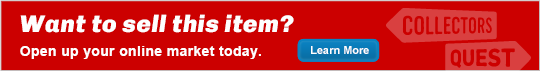
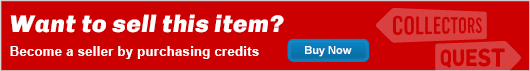
Updating the upselling creative for the _collectible_form_for_sale.php

diff --git a/apps/frontend/modules/mycq/templates/_collectible_form_for_sale.php b/apps/frontend/modules/mycq/templates/_collectible_form_for_sale.php
@@ -55,31 +55,15 @@
     </div>
   </div>
   <?php else: ?>
-  <div id="not-a-seller-box" class="spacer-bottom-20">
-    <div class="inner-yellow-bg">
-      <div class="row-fluid">
-        <div class="span12">
-          <span class="Chivo webfont buy-credits">
-            Want to sell this collectible?<br/>
-            Start selling now for a small fee.
-          </span>
-          <div class="row-fluid spacer-inner-top">
-            <div class="span6">
-              <?= link_to('1 credit / $2.50', '@seller_packages', array('class' => 'btn blue-button')) ?>
-              <br/><br/>
-              <?= link_to('10 credits / $20', '@seller_packages', array('class' => 'btn blue-button')) ?>
-            </div>
-            <div class="span6">
-              <?= link_to('100 credits / $150', '@seller_packages', array('class' => 'btn blue-button')) ?>
-              <br/><br/>
-              <?= link_to('Unlimited Credits / $250', '@seller_packages', array('class' => 'btn blue-button')) ?>
-            </div>
-          </div>
-        </div>
-      </div>
-      <br/>
-    </div>
-  </div>
+  <center>
+    <?php
+      echo link_to(
+        image_tag('banners/want-to-sell-this-item.png'),
+        '@seller_packages'
+      );
+    ?>
+  </center>
+  <br/>
   <?php endif; ?>
 </div>
 

diff --git a/apps/frontend/modules/mycq/templates/_createCollectibleForSale.php b/apps/frontend/modules/mycq/templates/_createCollectibleForSale.php
@@ -8,7 +8,7 @@
 <form action="<?= url_for('@ajax_mycq?section=component&page=createCollectibleForSale'); ?>"
       method="post" id="form-create-collectible" class="ajax form-horizontal form-modal">
 
-  <h1>Create a New Collectible</h1>
+  <h1>Create a New Collectible for Sale</h1>
 
   <?= $form->renderGlobalErrors(); ?>
 
@@ -20,7 +20,7 @@
 
   <div class="form-actions">
     <button type="submit" class="btn btn-primary blue-button spacer-right-15">
-      Create Collectible
+      Create Collectible for Sale
     </button>
     <button type="reset" class="btn gray-button"
             onClick="$(this).parents('.modal').find('.modal-body').dialog2('close')">
